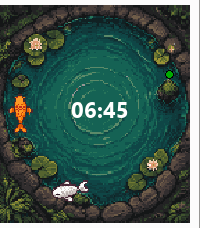
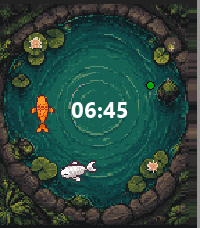
Keep koi inside the water; draw pond 1:1 with emery-sized art.

diff --git a/src/c/face.c b/src/c/face.c
@@ -61,9 +61,10 @@ static void format_date(char *buf, size_t n) {
   snprintf(buf, n, "%s %d %s", DOW[s_wday % 7], s_mday, MON[s_mon % 12]);
 }
 
-// Pond art is authored at 144x168; water rim sits ~58px from center (half=72).
+// Pond art water circle ~58px from center (half≈72). Koi sprites are 32px, so
+// the swim *center* must sit ~16px inside the water rim or fish land on stones.
 #define POND_ART_HALF 72
-#define POND_WATER_R 58
+#define POND_SWIM_R 42
 
 static void update_proc(Layer *layer, GContext *ctx) {
   GRect bounds = layer_get_bounds(layer);
@@ -72,19 +73,29 @@ static void update_proc(Layer *layer, GContext *ctx) {
   graphics_context_set_fill_color(ctx, GColorDarkGreen);
   graphics_fill_rect(ctx, bounds, 0, GCornerNone);
 
-  // Stretch pond to fill the whole display so koi never swim in the margin.
+  // Pebble does not stretch bitmaps — draw 1:1, centered. Emery ships a
+  // full-size pond resource so this fills Time 2 as well.
+  GRect pond_rect = bounds;
   if (s_pond) {
+    GSize psz = gbitmap_get_bounds(s_pond).size;
+    pond_rect = GRect(
+        (bounds.size.w - psz.w) / 2,
+        (bounds.size.h - psz.h) / 2,
+        psz.w, psz.h);
     graphics_context_set_compositing_mode(ctx, GCompOpAssign);
-    graphics_draw_bitmap_in_rect(ctx, s_pond, bounds);
+    graphics_draw_bitmap_in_rect(ctx, s_pond, pond_rect);
   }
 
-  GPoint center = GPoint(bounds.size.w / 2, bounds.size.h / 2);
-  int half = (bounds.size.w < bounds.size.h ? bounds.size.w : bounds.size.h) / 2;
-  // Scale the water rim to this screen, then apply Clay inset from that rim.
-  int water_r = (half * POND_WATER_R) / POND_ART_HALF;
-  int radius = water_r - (cfg->ring_inset - 18);
-  if (radius < 20) radius = 20;
-  if (radius > water_r) radius = water_r;
+  GPoint center = GPoint(
+      pond_rect.origin.x + pond_rect.size.w / 2,
+      pond_rect.origin.y + pond_rect.size.h / 2);
+  int half = (pond_rect.size.w < pond_rect.size.h
+                  ? pond_rect.size.w
+                  : pond_rect.size.h) / 2;
+  int swim_r = (half * POND_SWIM_R) / POND_ART_HALF;
+  int radius = swim_r - (cfg->ring_inset - 18);
+  if (radius < 16) radius = 16;
+  if (radius > swim_r) radius = swim_r;
 
   // Clock angles: 0° at 12, clockwise.
   int hour_angle = ((s_hour % 12) * 30) + (s_minute / 2);

diff --git a/tools/generate_store_screenshots.py b/tools/generate_store_screenshots.py
@@ -176,23 +176,27 @@ def render(w: int, h: int, color: bool, scene: dict) -> Image.Image:
     bg = DARK_GREEN if color else BLACK
     img = Image.new("RGB", (w, h), bg)
 
-    pond = Image.open(POND).convert("RGBA")
+    # Match watchface: 1:1 centered pond (emery uses a dedicated 200x228 asset).
+    pond_path = ROOT / "resources" / "images" / "pond" / (
+        "pond_emery.png" if (w, h) == (200, 228) else "pond.png"
+    )
+    pond = Image.open(pond_path).convert("RGBA")
     if not color:
         pond = to_bw(pond).convert("RGBA")
         flat = Image.new("RGBA", pond.size, (0, 0, 0, 255))
         flat.paste(pond, (0, 0), pond)
         pond = flat
 
-    # Match watchface: stretch pond to fill the whole display.
-    pond = pond.resize((w, h), Image.NEAREST)
-    img.paste(pond.convert("RGB"), (0, 0))
+    pw, ph = pond.size
+    ox, oy = (w - pw) // 2, (h - ph) // 2
+    img.paste(pond.convert("RGB"), (ox, oy))
 
-    cx, cy = w // 2, h // 2
-    half = min(w, h) // 2
-    water_r = (half * 58) // 72
-    radius = water_r - (int(scene["ring_inset"]) - 18)
-    radius = max(20, min(radius, water_r))
-    koi_scale = min(w / 144.0, h / 168.0)
+    cx, cy = ox + pw // 2, oy + ph // 2
+    half = min(pw, ph) // 2
+    swim_r = (half * 42) // 72
+    radius = swim_r - (int(scene["ring_inset"]) - 18)
+    radius = max(16, min(radius, swim_r))
+    koi_scale = min(pw / 144.0, ph / 168.0)
 
     hour_angle = ((scene["hour"] % 12) * 30) + (scene["minute"] // 2)
     minute_angle = scene["minute"] * 6
